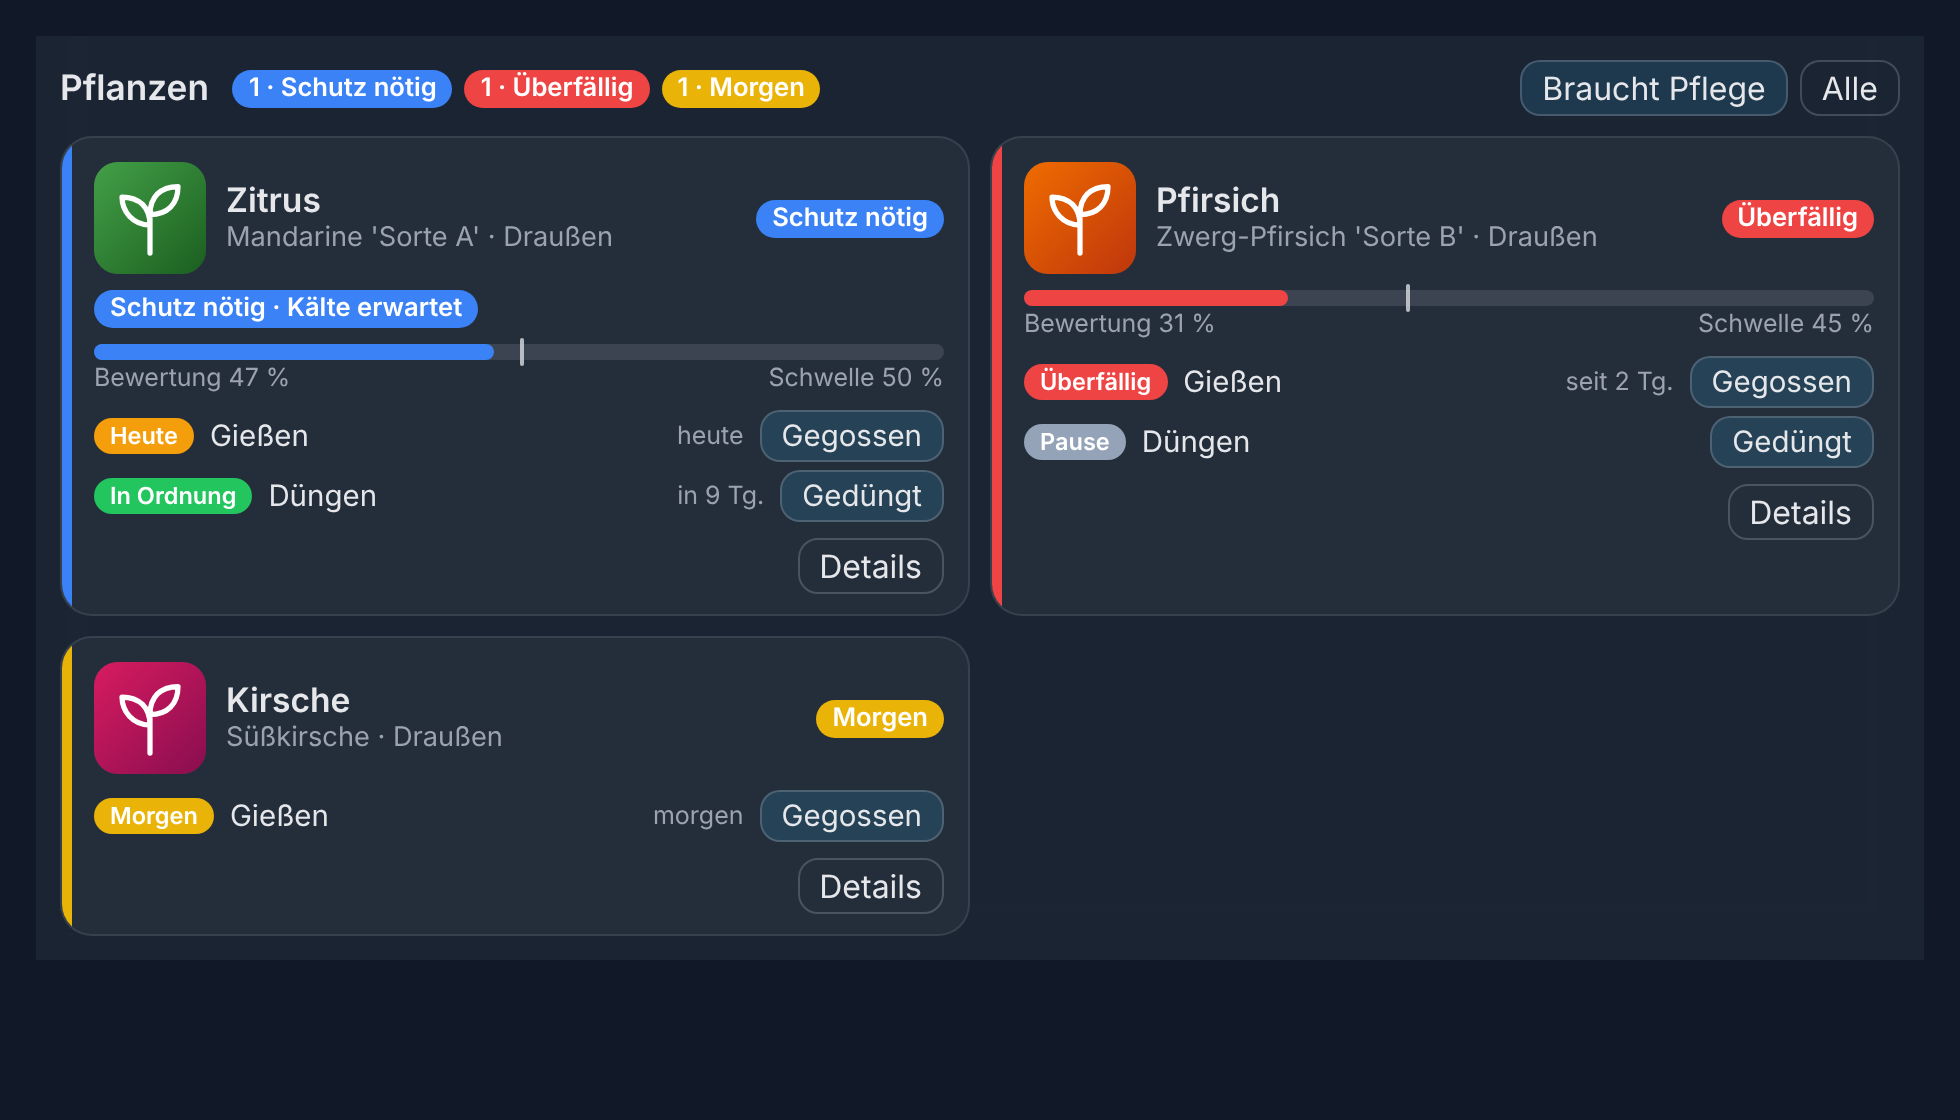
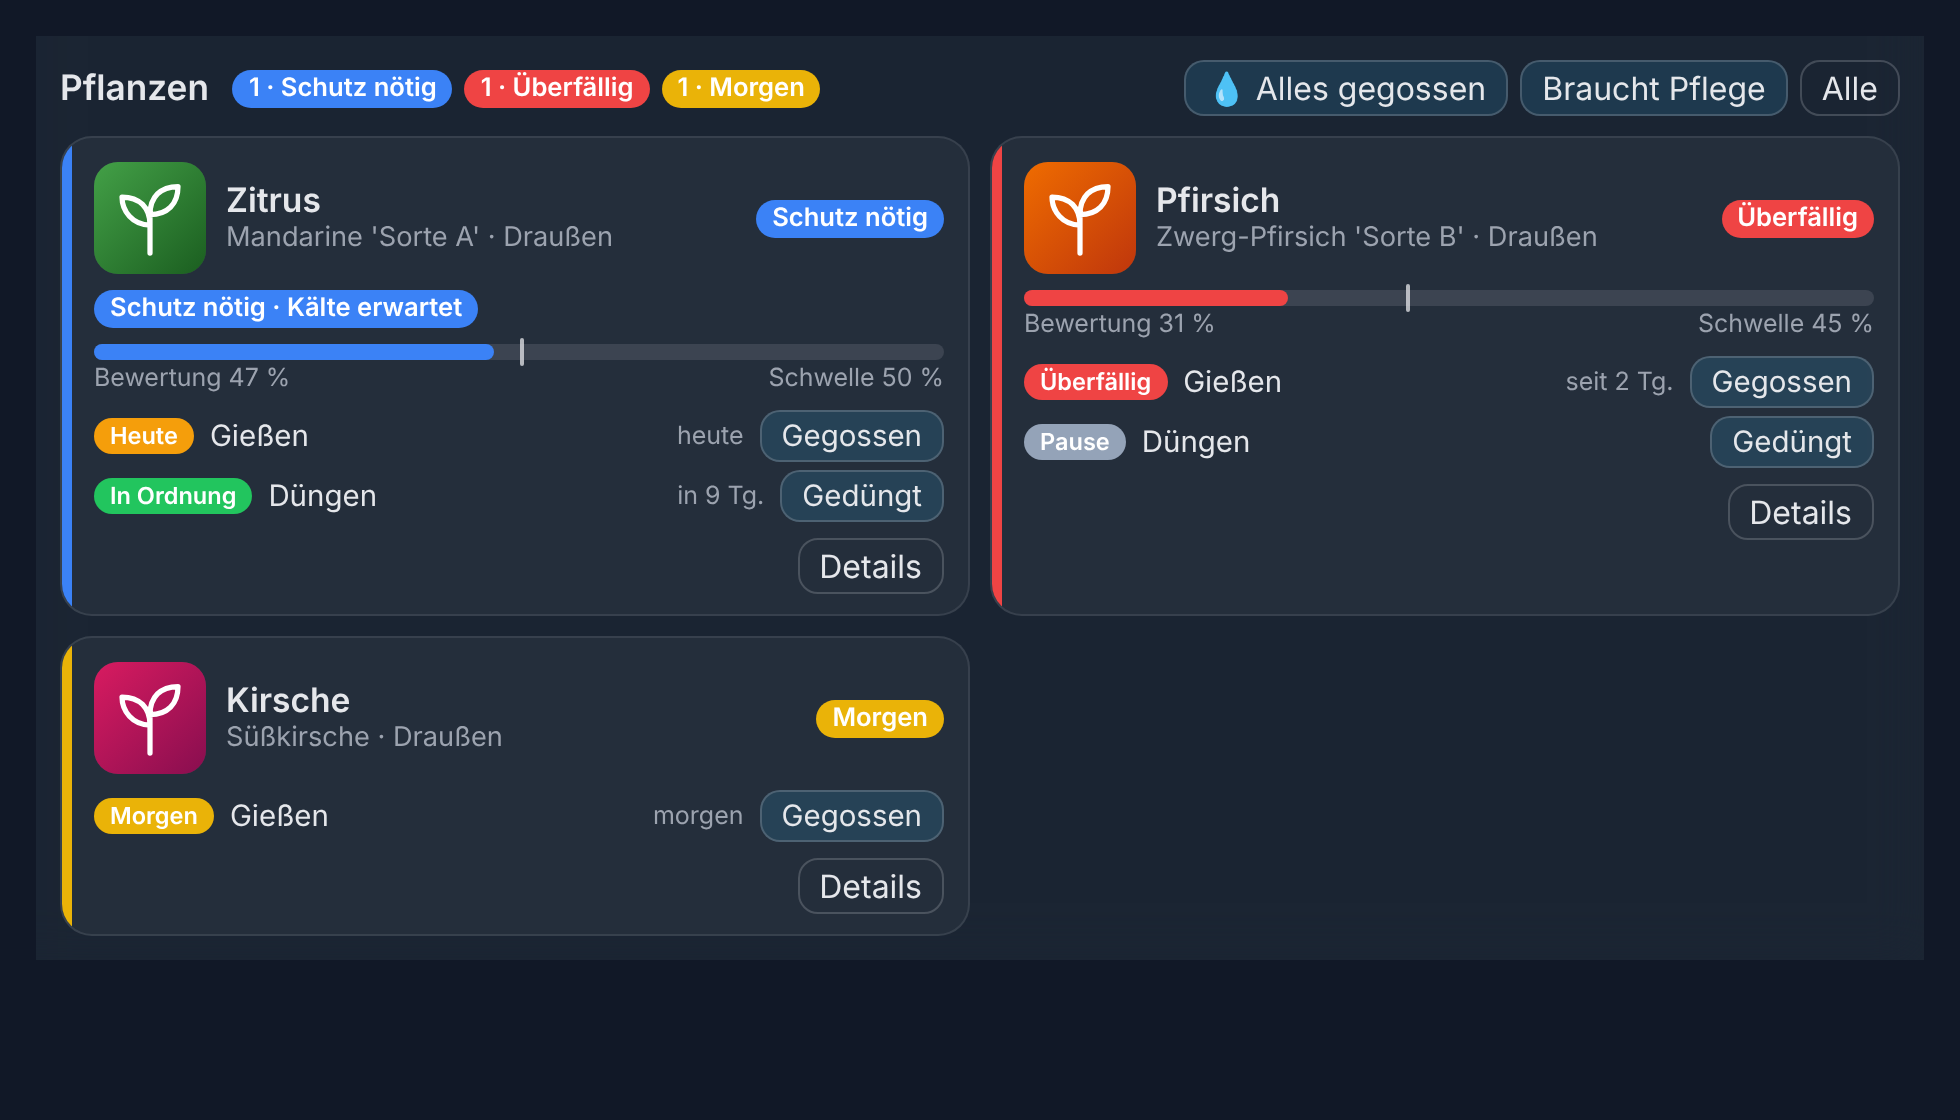
Card: one-time tasks, all watered with confirmation, compact layout
Claude-Session: https://claude.ai/code/session_01XDKhdn2DLoRPR4Q6w53CJd

Changed region(s): [[0.5913, 0.0312, 0.7781, 0.125]]

diff --git a/custom_components/rootine/frontend/rootine-card.js b/custom_components/rootine/frontend/rootine-card.js
@@ -4,8 +4,9 @@
  * Usage:  type: custom:rootine-card
  *         entity: sensor.<plant>_care_status     # one plant
  *         mode: overview                          # or: all plants
+ *         layout: compact                         # optional: one row per plant (phones)
  */
-const VERSION = "1.1.1";
+const VERSION = "1.2.0";
 
 const T = {
   de: {
@@ -31,6 +32,10 @@ const T = {
       valve: "Ventil", rain: "Regen", setup: "Einrichtung" },
     noEntity: "Bitte eine Pflanze (entity) oder mode: overview angeben.",
     uploadFailed: "Das Foto konnte nicht hochgeladen werden.",
+    allWater: "Alles gegossen", allWaterTitle: "Alles gegossen?",
+    allWaterText: (names) => `Als gegossen markieren: ${names}.`,
+    allWaterHint: "Einzeln rückgängig machen geht über den Verlauf der Pflanze.",
+    watered: (n) => (n === 1 ? "1 Pflanze als gegossen markiert." : `${n} Pflanzen als gegossen markiert.`),
   },
   en: {
     overview: "Plants", needs: "Needs care", all: "All", none: "All good.",
@@ -55,6 +60,10 @@ const T = {
       valve: "Valve", rain: "Rain", setup: "Setup" },
     noEntity: "Please set a plant (entity) or mode: overview.",
     uploadFailed: "The photo could not be uploaded.",
+    allWater: "All watered", allWaterTitle: "All watered?",
+    allWaterText: (names) => `Mark as watered: ${names}.`,
+    allWaterHint: "Each one can be undone in the plant's history.",
+    watered: (n) => (n === 1 ? "1 plant marked as watered." : `${n} plants marked as watered.`),
   },
 };
 
@@ -157,6 +166,25 @@ form.edit input, form.edit textarea, .row input, .row select { width: 100%; box-
 .log { display: flex; flex-direction: column; gap: 2px; font-size: .88em; max-height: 180px; overflow: auto; }
 .log div { display: flex; gap: 8px; align-items: center; } .log .u { text-decoration: line-through; opacity: .6; }
 .log span.t { flex: 1; }
+.list { display: flex; flex-direction: column; gap: 6px; }
+.prow { --accent: var(--primary-color); display: grid; grid-template-columns: 40px minmax(0, 1fr) auto; gap: 10px;
+  align-items: center; padding: 6px 8px 6px 10px; border-radius: 12px; cursor: pointer; min-width: 0;
+  background: color-mix(in srgb, var(--primary-text-color) 5%, transparent); border-left: 4px solid var(--accent); }
+.prow:hover { background: color-mix(in srgb, var(--primary-text-color) 9%, transparent); }
+.prow:focus-visible { outline: 2px solid var(--primary-color); outline-offset: 1px; }
+.prow .info { min-width: 0; display: flex; flex-direction: column; gap: 2px; }
+.prow .line { display: flex; align-items: center; gap: 6px; min-width: 0; }
+.prow .line .name { min-width: 0; }
+.prow .line .chip { flex: none; font-size: .72em; }
+.prow .next { min-width: 0; font-size: .85em; color: var(--secondary-text-color); overflow: hidden;
+  text-overflow: ellipsis; white-space: nowrap; }
+.head .actions { flex-wrap: wrap; } .head .actions button { white-space: nowrap; }
+ha-card.compact .head .actions { width: 100%; justify-content: flex-start; }
+ha-card.compact .head .actions button { padding: 3px 8px; font-size: .9em; }
+.prow button { white-space: nowrap; }
+.thumb { width: 40px; height: 40px; border-radius: 10px; object-fit: cover; display: flex; align-items: center;
+  justify-content: center; font-size: 20px; background: color-mix(in srgb, var(--primary-text-color) 10%, transparent); }
+.confirm { width: min(420px, 100%); }
 .tip { position: fixed; pointer-events: none; z-index: 10; padding: 3px 8px; border-radius: 8px; font-size: .8em;
   background: var(--primary-text-color); color: var(--card-background-color); }
 `;
@@ -175,10 +203,13 @@ class RootineCard extends HTMLElement {
     this._config = config;
   }
 
-  getCardSize() { return this._config?.mode === "overview" ? 6 : 3; }
+  get _compact() { return this._config?.layout === "compact"; }
+
+  getCardSize() { return this._compact ? 3 : this._config?.mode === "overview" ? 6 : 3; }
 
   /** Size in sections dashboards. */
   getGridOptions() {
+    if (this._compact) return { columns: 6, min_columns: 3 };
     return this._config?.mode === "overview"
       ? { columns: "full", min_columns: 6 }
       : { columns: 6, min_columns: 4 };
@@ -193,8 +224,9 @@ class RootineCard extends HTMLElement {
   set hass(hass) {
     this._hass = hass;
     this._t = T[(hass.language || "en").startsWith("de") ? "de" : "en"];
-    if (this._dialog) return; // do not re-render while the dialog is open (keeps form input)
-    const key = JSON.stringify(this._plants().map((p) => [p.id, p.state, p.attrs.tasks, p.attrs.warnings, p.attrs.location, p.attrs.entity_picture]))
+    // do not re-render while a dialog is open (keeps form input and the confirmed list)
+    if (this._dialog || this._confirm) return;
+    const key = JSON.stringify(this._plants().map((p) => [p.id, p.state, p.attrs.tasks, p.attrs.oneoffs, p.attrs.warnings, p.attrs.location, p.attrs.entity_picture]))
       + this._filter;
     if (key !== this._rendered) { this._rendered = key; this._render(); }
   }
@@ -236,20 +268,84 @@ class RootineCard extends HTMLElement {
     let plants = this._plants();
     if (overview && this._filter === "needs") plants = plants.filter((p) => !["ok", "rest", "unknown"].includes(p.state));
     const all = this._plants();
-    const body = plants.length
-      ? `<div class="grid">${plants.map((p) => this._plantHtml(p)).join("")}</div>`
-      : `<div class="muted" style="padding:8px">${all.length ? t.none : t.noEntity}</div>`;
+    const body = !plants.length
+      ? `<div class="muted" style="padding:8px">${all.length ? t.none : t.noEntity}</div>`
+      : this._compact
+        ? `<div class="list">${plants.map((p) => this._rowHtml(p)).join("")}</div>`
+        : `<div class="grid">${plants.map((p) => this._plantHtml(p)).join("")}</div>`;
+    const thirsty = this._waterDue(all);
     const counts = RANK.slice(0, 6).map((k) => [k, all.filter((p) => p.state === k).length]).filter(([, n]) => n);
     const summary = overview && counts.length
       ? `<div class="summary">${counts.map(([k, n]) => `<span class="chip" style="background:${COLORS[k]}">${n} · ${esc(t.status[k])}</span>`).join("")}</div>` : "";
     const head = overview
       ? `<div class="head"><h2>${t.overview}</h2>${summary}<div class="actions">
+           ${thirsty.length ? `<button data-allwater>💧 ${t.allWater}</button>` : ""}
            <button class="${this._filter === "needs" ? "" : "ghost"}" data-filter="needs">${t.needs}</button>
            <button class="${this._filter === "all" ? "" : "ghost"}" data-filter="all">${t.all}</button></div></div>`
       : "";
-    this.shadowRoot.innerHTML = `<style>${STYLE}</style><ha-card>${head}${body}</ha-card>${this._dialog ? this._dialogHtml() : ""}`;
+    this.shadowRoot.innerHTML = `<style>${STYLE}</style><ha-card class="${this._compact ? "compact" : ""}">${head}${body}</ha-card>${this._dialog ? this._dialogHtml() : ""}${this._confirm ? this._confirmHtml() : ""}`;
     this._bind();
     if (this._dialog) this._afterDialog();
+    if (this._confirm) this._afterConfirm();
+  }
+
+  /** Tasks and one-time tasks of a plant, in one list. */
+  _items(a) {
+    const tasks = Object.entries(a.tasks || {}).map(([key, task]) => ({ key, name: task.name, status: task.status, days: task.days }));
+    const once = (a.oneoffs || []).map((o) => ({ key: o.id, name: o.name, status: o.status, days: o.days, oneoff: true }));
+    return [...tasks, ...once];
+  }
+
+  /** Most urgent first; among equals the one due earliest. */
+  _urgent(items) {
+    const rank = (i) => RANK.indexOf(i.status) * 1000 + (i.days ?? 999);
+    return [...items].sort((x, y) => rank(x) - rank(y))[0];
+  }
+
+  _verb(item) {
+    const t = this._t;
+    return item.key === "water" && !item.oneoff ? t.water : item.key === "fertilize" && !item.oneoff ? t.fertilize : t.done;
+  }
+
+  _when(item) {
+    return item.days === null || item.days === undefined ? "" : this._t.days(item.days);
+  }
+
+  /** Plants whose watering is due or overdue (for "all watered"). */
+  _waterDue(plants) {
+    return plants.filter((p) => ["due", "overdue"].includes(p.attrs.tasks?.water?.status));
+  }
+
+  _rowHtml(p) {
+    const a = p.attrs, next = this._urgent(this._items(a));
+    const pic = a.entity_picture ? `<img class="thumb" src="${esc(a.entity_picture)}" alt="">` : `<div class="thumb">🌱</div>`;
+    const line = next ? `${next.name}${this._when(next) ? ` · ${this._when(next)}` : ""}` : "";
+    const button = next ? `<button data-done="${esc(next.key)}" data-plant="${esc(p.id)}">${esc(this._verb(next))}</button>` : "<span></span>";
+    return `<div class="prow" data-row="${esc(p.id)}" role="button" tabindex="0" style="--accent:${COLORS[p.state] || COLORS.unknown}">${pic}
+      <div class="info"><div class="line"><div class="name">${esc(p.name)}</div>${this._chip(p.state)}</div><div class="next">${esc(line)}</div></div>
+      ${button}</div>`;
+  }
+
+  _confirmHtml() {
+    const t = this._t, c = this._confirm;
+    return `<div class="overlay" data-confirm-overlay><div class="dialog confirm" data-confirm role="alertdialog">
+      <h3>${esc(t.allWaterTitle)}</h3><div>${esc(t.allWaterText(c.names.join(", ")))}</div><div class="muted">${esc(t.allWaterHint)}</div>
+      <div class="actions"><button class="ghost" data-confirm-cancel>${t.cancel}</button><button data-confirm-ok>💧 ${t.water}</button></div></div></div>`;
+  }
+
+  _afterConfirm() {
+    const root = this.shadowRoot;
+    const close = () => { this._confirm = null; this._rendered = ""; this._render(); };
+    root.querySelector("[data-confirm-cancel]")?.addEventListener("click", close);
+    root.querySelector("[data-confirm-overlay]")?.addEventListener("click", (e) => { if (e.target.dataset.confirmOverlay !== undefined) close(); });
+    root.querySelector("[data-confirm-ok]")?.addEventListener("click", async (e) => {
+      e.target.disabled = true;
+      const ids = this._confirm.ids;
+      let done = 0;
+      for (const id of ids) if (await this._call("rootine", "mark_done", { entity_id: id, task: "water" })) done += 1;
+      close();
+      if (done) this._toast(this._t.watered(done));
+    });
   }
 
   _chip(status) {
@@ -262,12 +358,8 @@ class RootineCard extends HTMLElement {
     const sub = [a.profile.common_name, a.profile.cultivar && `'${a.profile.cultivar}'`].filter(Boolean).join(" ");
     const warns = (a.warnings || []).map((w) =>
       `<span class="chip" style="background:${COLORS[w.key === "sensor_check" ? "check_sensor" : w.key]}" title="${esc(t.reason[w.reason] || "")}">${esc(t.warn[w.key])}${w.reason ? ` · ${esc(t.reason[w.reason] || w.reason)}` : ""}</span>`).join("");
-    const tasks = Object.entries(a.tasks).map(([key, task]) => {
-      const verb = key === "water" ? t.water : key === "fertilize" ? t.fertilize : t.done;
-      const when = task.days === null || task.days === undefined ? "" : t.days(task.days);
-      return `<div class="task">${this._chip(task.status)}<span class="label">${esc(task.name)}</span>
-        <span class="when">${esc(when)}</span><button data-done="${esc(key)}" data-plant="${esc(p.id)}">${esc(verb)}</button></div>`;
-    }).join("");
+    const tasks = this._items(a).map((item) => `<div class="task">${this._chip(item.status)}<span class="label">${esc(item.name)}</span>
+        <span class="when">${esc(this._when(item))}</span><button data-done="${esc(item.key)}" data-plant="${esc(p.id)}">${esc(this._verb(item))}</button></div>`).join("");
     const m = a.moisture;
     const bar = m && m.value != null
       ? `<div><div class="bar"><div class="fill" style="width:${Math.max(0, Math.min(100, m.value))}%"></div>${m.threshold != null ? `<div class="mark" style="left:${m.threshold}%" title="${esc(t.threshold)} ${m.threshold} %"></div>` : ""}</div>
@@ -291,6 +383,15 @@ class RootineCard extends HTMLElement {
       if (ok) { b.textContent = "✓"; b.classList.add("done"); } else { b.disabled = false; }
     }));
     root.querySelectorAll("[data-details]").forEach((b) => b.addEventListener("click", () => this._open(b.dataset.details)));
+    root.querySelectorAll("[data-row]").forEach((r) => {
+      r.addEventListener("click", (e) => { if (!e.target.closest("button")) this._open(r.dataset.row); });
+      r.addEventListener("keydown", (e) => { if (e.key === "Enter" && e.target === r) this._open(r.dataset.row); });
+    });
+    root.querySelector("[data-allwater]")?.addEventListener("click", () => {
+      const plants = this._waterDue(this._plants());
+      this._confirm = { ids: plants.map((p) => p.id), names: plants.map((p) => p.name) };
+      this._render();
+    });
   }
 
   /** Call an action; show HA's toast on failure instead of failing silently. */
@@ -393,14 +494,14 @@ class RootineCard extends HTMLElement {
     const a = st.attributes, p = a.profile;
     const name = a.friendly_name?.replace(/ (Pflegestatus|Care status)$/i, "") || d.id;
     const pic = a.entity_picture ? `<img class="pic" style="width:72px;height:72px" src="${esc(a.entity_picture)}" alt="">` : `<div class="pic" style="width:72px;height:72px">🌱</div>`;
-    const taskOptions = Object.entries(a.tasks).map(([k, v]) => `<option value="${esc(k)}">${esc(v.name)}</option>`).join("");
+    const taskOptions = this._items(a).map((i) => `<option value="${esc(i.key)}">${esc(i.name)}</option>`).join("");
     const kv = (label, value, isMd) => value ? `<dt>${esc(label)}</dt><dd>${isMd ? markdown(value) : esc(value)}</dd>` : "";
     const view = `<dl class="kv">${PROFILE_FIELDS.map((f) => kv(t.fields[f], f.startsWith("care.") ? p[f] : p[f] ?? "", f.startsWith("care.") || f === "notes")).join("")}</dl>`;
     const form = `<form class="edit" data-form>${PROFILE_FIELDS.map((f) => {
       const multi = f.startsWith("care.") || f === "notes";
       return `<label>${esc(t.fields[f])}</label>${multi ? `<textarea name="${f}" rows="3">${esc(p[f] ?? "")}</textarea>` : `<input name="${f}" value="${esc(p[f] ?? "")}">`}`;
     }).join("")}<span></span><div class="actions"><button type="button" class="ghost" data-cancel>${t.cancel}</button><button type="submit">${t.save}</button></div></form>`;
-    const log = d.history.map((e) => `<div class="${e.undone ? "u" : ""}"><span class="t">${esc(new Date(e.ts).toLocaleString(this._hass.language))} · ${esc(a.tasks[e.task]?.name || e.task)} · ${esc(t.sources[e.source] || e.source)}${e.note ? ` · ${esc(e.note)}` : ""}</span>${e.undone ? `<span class="muted">${t.undone}</span>` : `<button class="ghost" data-undo="${esc(e.id)}">${t.undo}</button>`}</div>`).join("");
+    const log = d.history.map((e) => `<div class="${e.undone ? "u" : ""}"><span class="t">${esc(new Date(e.ts).toLocaleString(this._hass.language))} · ${esc(a.tasks[e.task]?.name || e.task_name || e.task)} · ${esc(t.sources[e.source] || e.source)}${e.note ? ` · ${esc(e.note)}` : ""}</span>${e.undone ? `<span class="muted">${t.undone}</span>` : `<button class="ghost" data-undo="${esc(e.id)}">${t.undo}</button>`}</div>`).join("");
     const locSelect = this._siblings(d.id).find((e) => e.startsWith("select.") && this._hass.states[e]);
     return `<div class="overlay" data-overlay><div class="dialog">
       <div class="top">${pic}<div class="title"><div class="name" style="font-size:1.2em">${esc(name)}</div><div class="sub">${esc([p.common_name, p.species].filter(Boolean).join(" · "))}</div></div>${this._chip(st.state)}
@@ -496,7 +597,7 @@ class RootineCardEditor extends HTMLElement {
     if (!this._hass || !this._config) return;
     if (!this._form) {
       this._form = document.createElement("ha-form");
-      this._form.computeLabel = (s) => ({ entity: "Pflanze / Plant", mode: "Modus / Mode" }[s.name] || s.name);
+      this._form.computeLabel = (s) => ({ entity: "Pflanze / Plant", mode: "Modus / Mode", layout: "Darstellung / Layout" }[s.name] || s.name);
       this._form.addEventListener("value-changed", (e) =>
         this.dispatchEvent(new CustomEvent("config-changed", { detail: { config: e.detail.value }, bubbles: true, composed: true })));
       this.appendChild(this._form);
@@ -506,6 +607,7 @@ class RootineCardEditor extends HTMLElement {
     this._form.schema = [
       { name: "entity", selector: { entity: { integration: "rootine", domain: "sensor" } } },
       { name: "mode", selector: { select: { options: [{ value: "overview", label: "Overview" }], mode: "dropdown", custom_value: false } } },
+      { name: "layout", selector: { select: { options: [{ value: "compact", label: "Kompakt / Compact" }], mode: "dropdown", custom_value: false } } },
     ];
   }
 }
